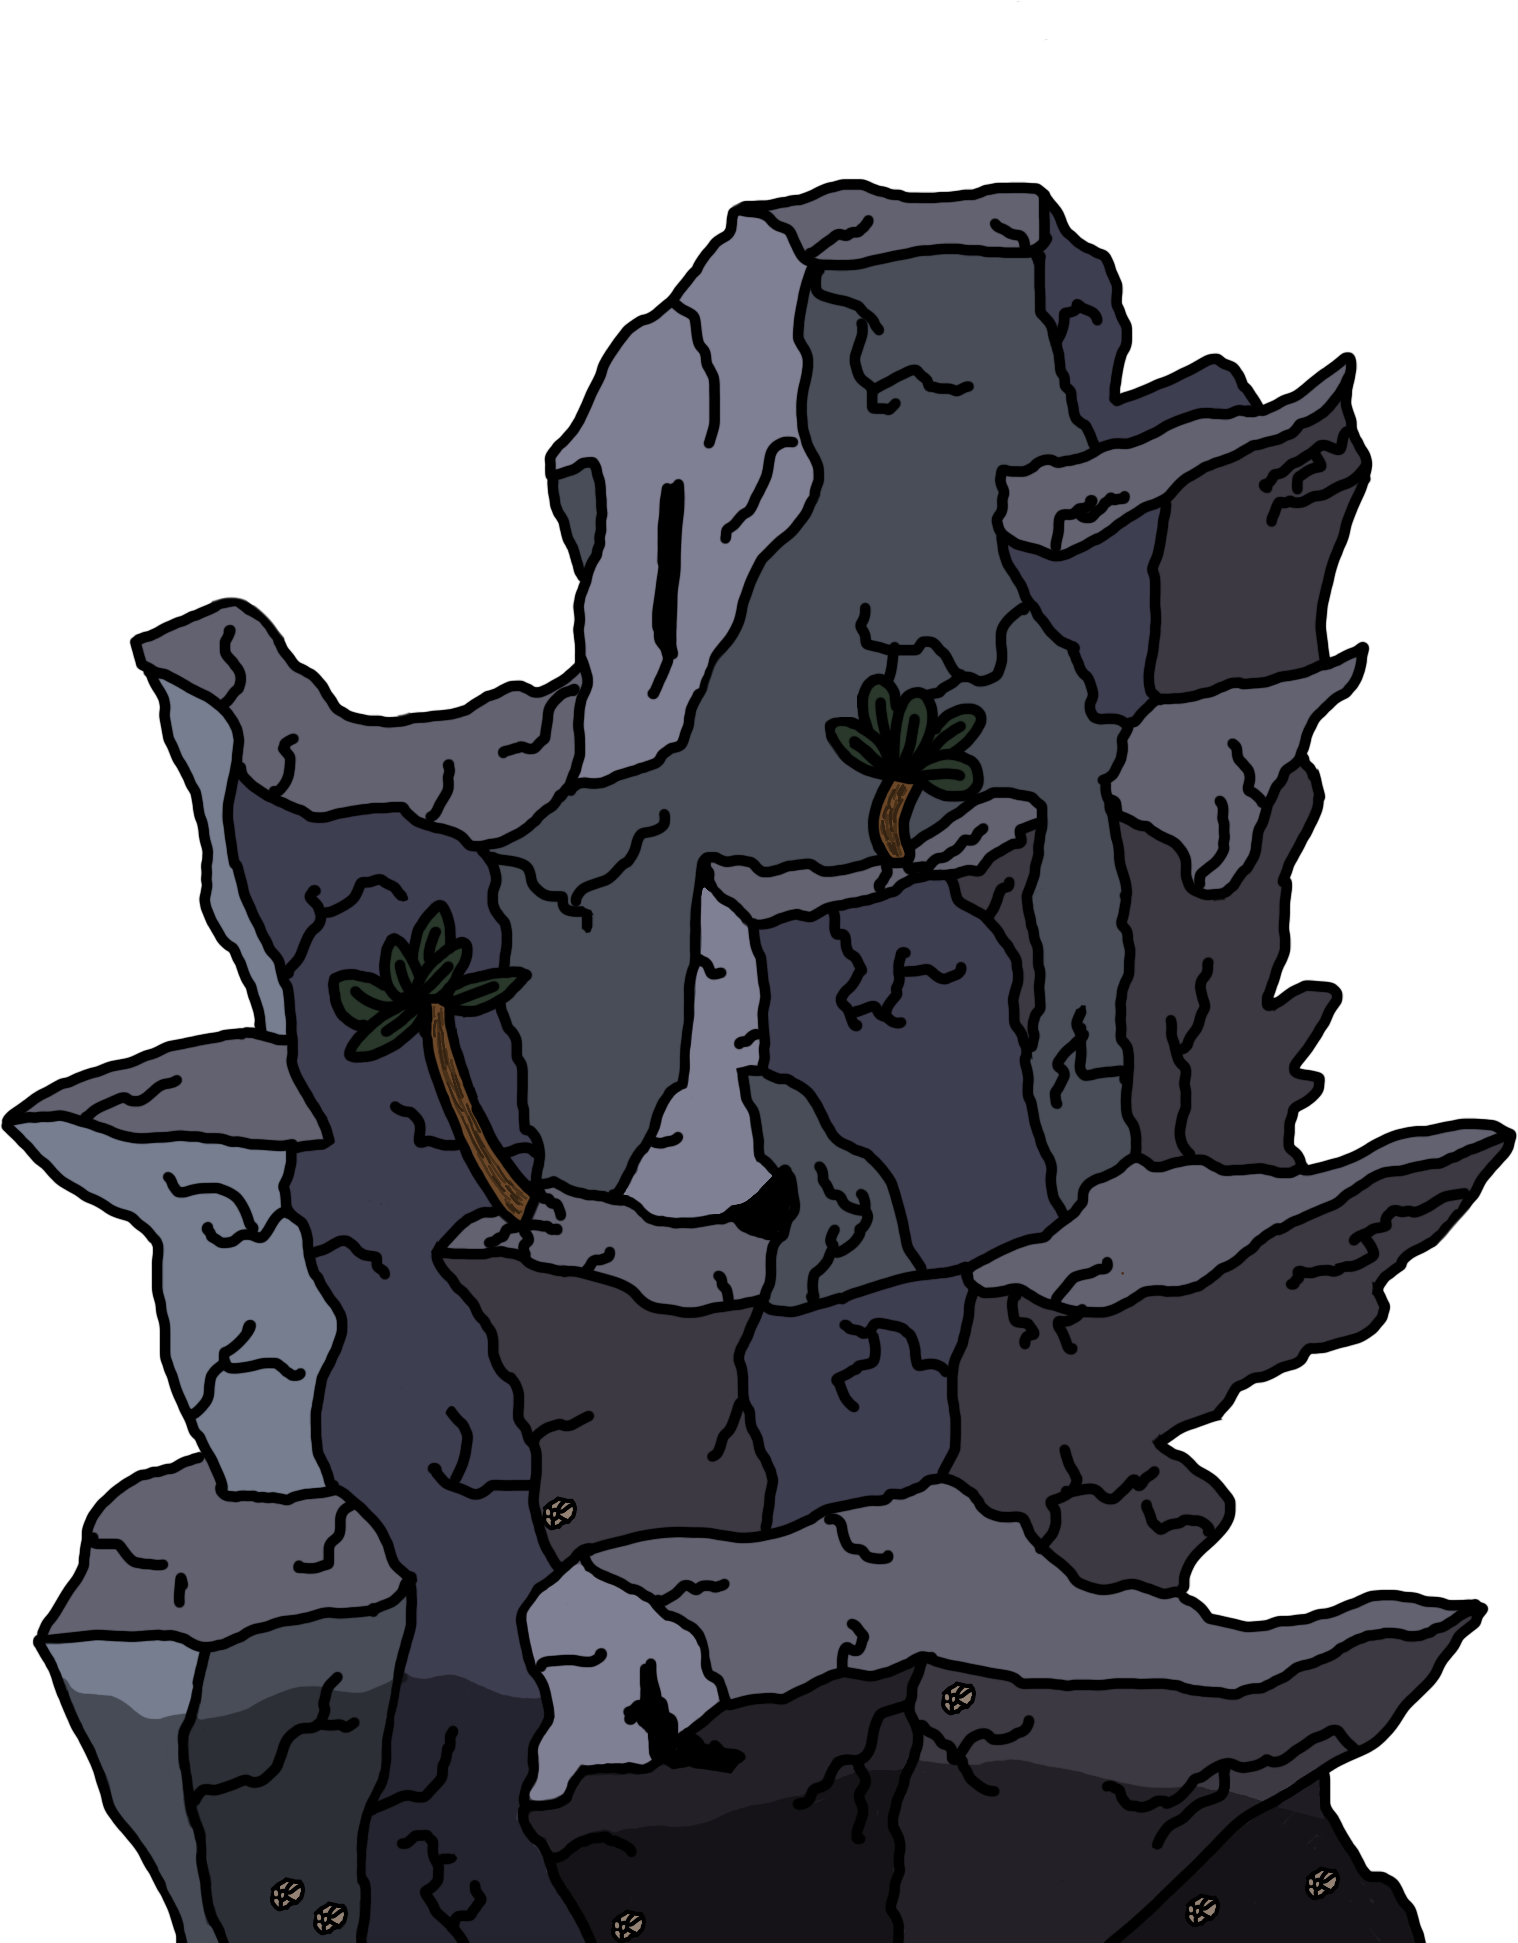
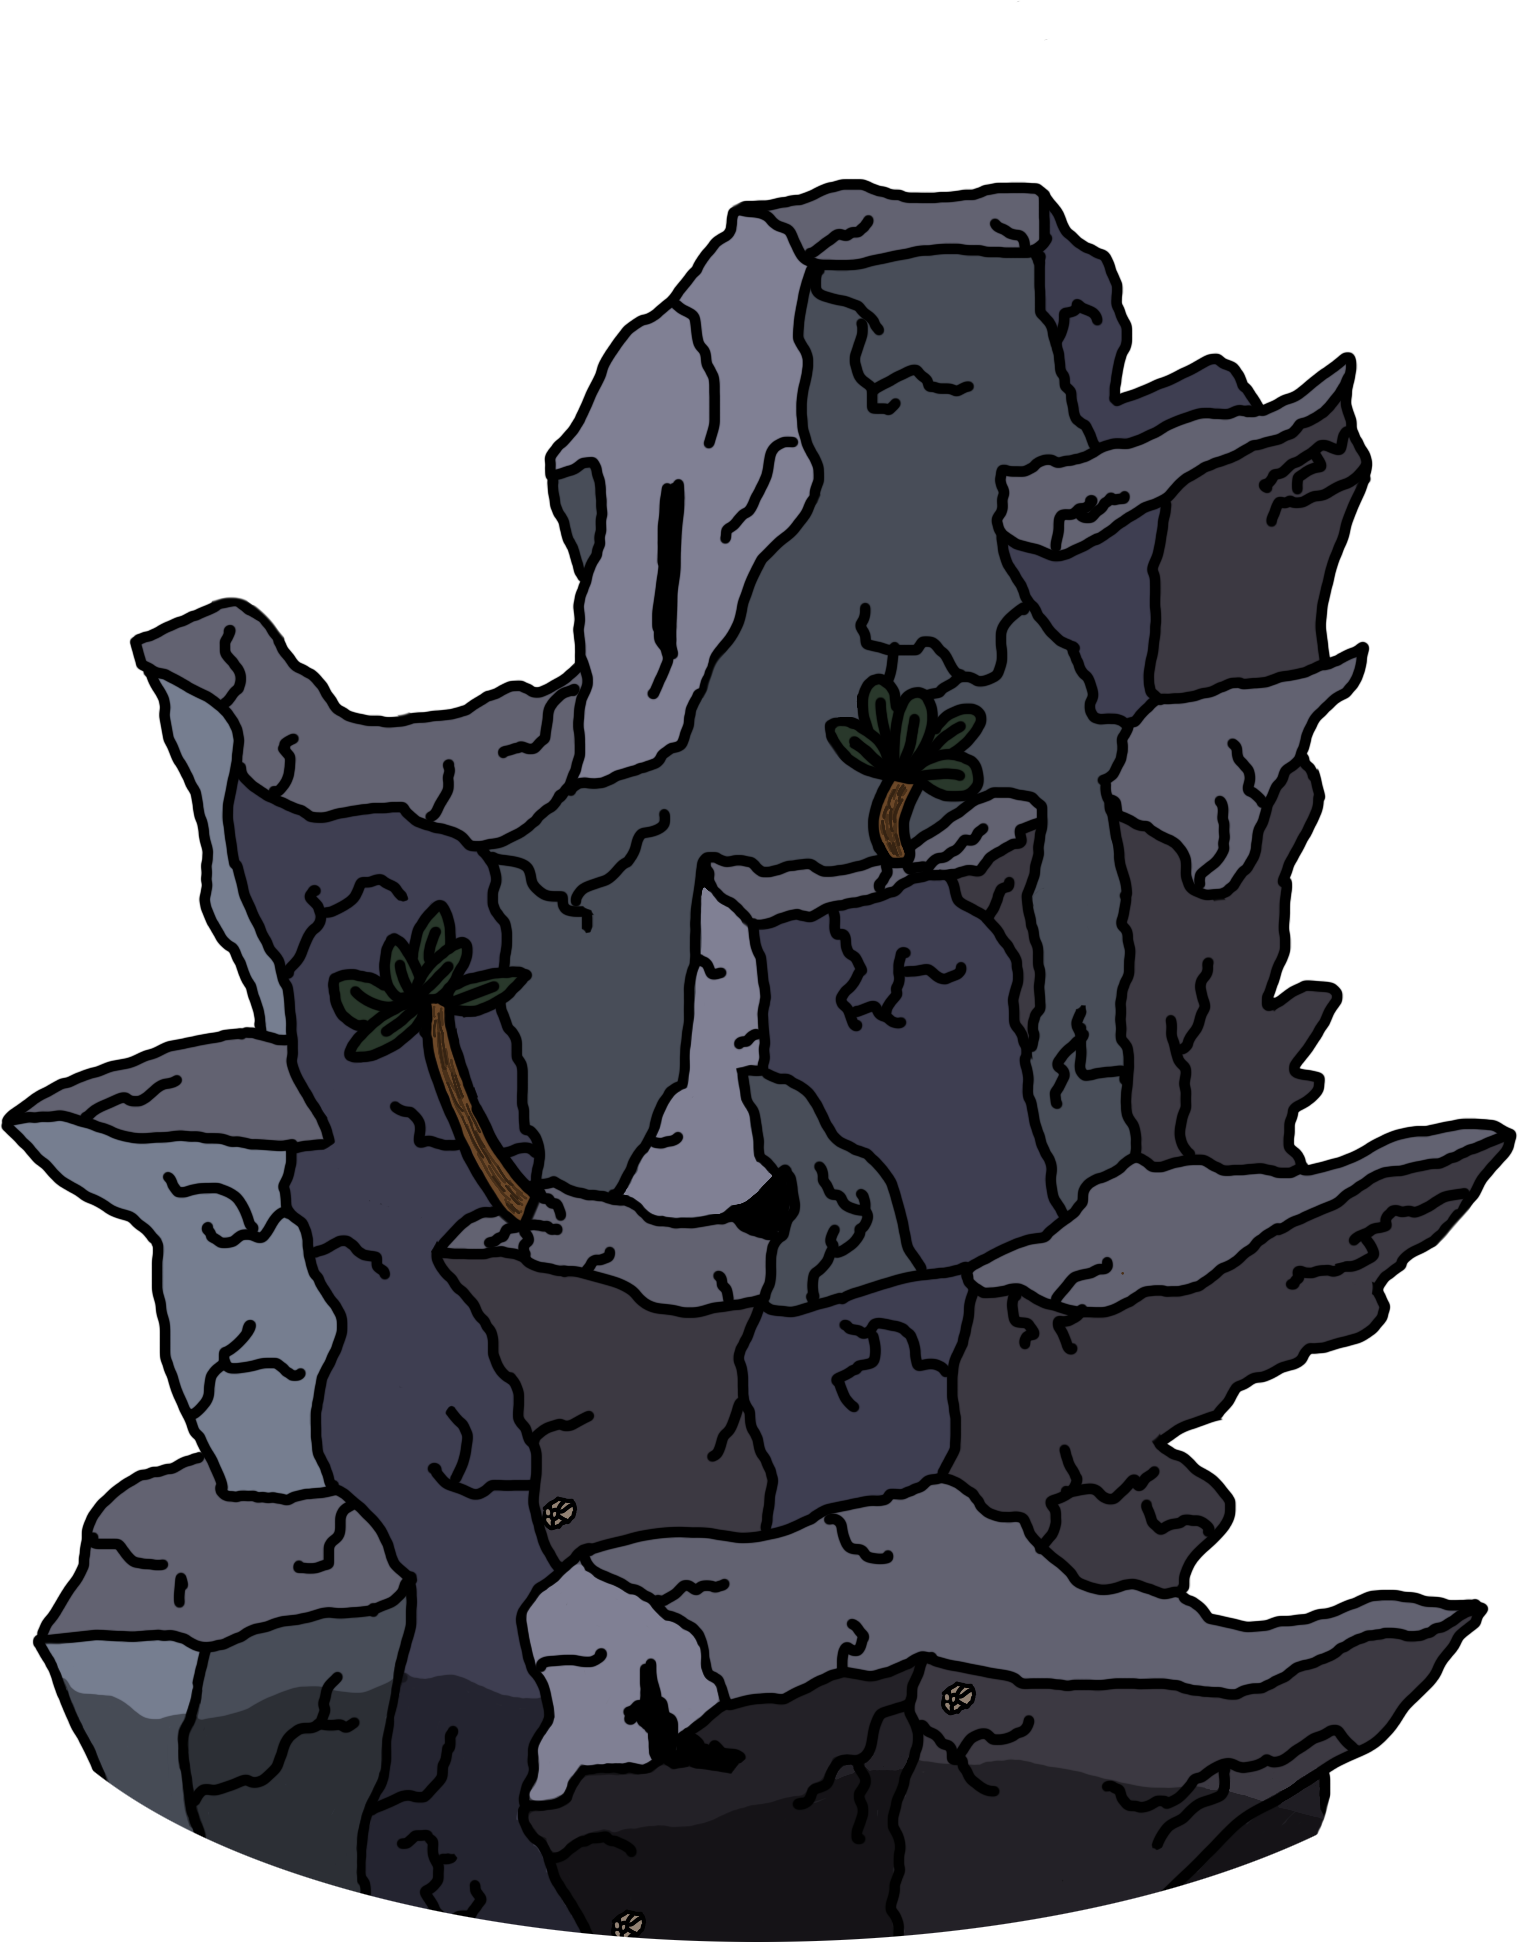
Adjusted rock and surf visuals
- surf doesn't get pushed around by the big wave
- surf in 3/4 perspective
- rocks have rounded bottoms
- fixed Rock position/size inconsistency
- adjusted reticle sprite

Changed region(s): [[0.5264, 0.9264, 0.9598, 1.0], [0.0619, 0.8955, 0.4644, 1.0]]

diff --git a/TechnicalPrototype/core/src/edu/cornell/gdiac/raftoftheseus/model/LevelModel.java b/TechnicalPrototype/core/src/edu/cornell/gdiac/raftoftheseus/model/LevelModel.java
@@ -920,7 +920,7 @@ public class LevelModel {
     private Texture recalculateSurfMap() {
         int res = 2;
         Pixmap pix = new Pixmap(res*extraCols(), res*extraRows(),  Pixmap.Format.RGBA8888);
-        pix.setColor(1.0f, 0.5f, 0.5f, 1.0f); // R = 1 = no terrain nearby
+        pix.setColor(1.0f, 1.0f, 0.5f, 1.0f); // R = 1 = no terrain nearby
         pix.fill();
         for (GameObject o : getObjects()) {
             if (o.getType() == GameObject.ObjectType.ROCK) {
@@ -950,6 +950,7 @@ public class LevelModel {
                                 // distance from pixel to nearest point in rock
                                 float dx = x - nx;
                                 float dy = y - ny;
+                                dy /= 0.7f; // for 3/4 perspective
                                 float d = (float)Math.sqrt(dx*dx + dy*dy); // could be substituted with max-norm distance;
 //                                float d = Math.max(Math.abs(dx), Math.abs(dy));
                                 d = Math.min(1.0f, d); // clamp to 1

diff --git a/TechnicalPrototype/core/src/edu/cornell/gdiac/raftoftheseus/model/Rock.java b/TechnicalPrototype/core/src/edu/cornell/gdiac/raftoftheseus/model/Rock.java
@@ -36,7 +36,7 @@ public class Rock extends GameObject {
     public Rock(Vector2 position, boolean sharp) {
         physicsObject = new BoxObstacle(WIDTH, HEIGHT);
 //        physicsObject = new WheelObstacle(RADIUS);
-        setPosition(position.add(0, HEIGHT/3));
+        setPosition(position);
         physicsObject.setBodyType(BodyDef.BodyType.StaticBody);
         physicsObject.getFilterData().categoryBits = CATEGORY_TERRAIN;
         physicsObject.getFilterData().maskBits = MASK_TERRAIN;
@@ -47,7 +47,7 @@ public class Rock extends GameObject {
     protected void setTextureTransform() {
         float w = WIDTH / texture.getRegionWidth();
         textureScale = new Vector2(w, w);
-        textureOffset = new Vector2(0.0f,(texture.getRegionHeight()*textureScale.y - HEIGHT)/2f);
+        textureOffset = new Vector2(0.0f,(texture.getRegionHeight()*textureScale.y - HEIGHT)/2f + 0.5f);
     }
 
     /** @return Whether this rock is sharp or not. */
